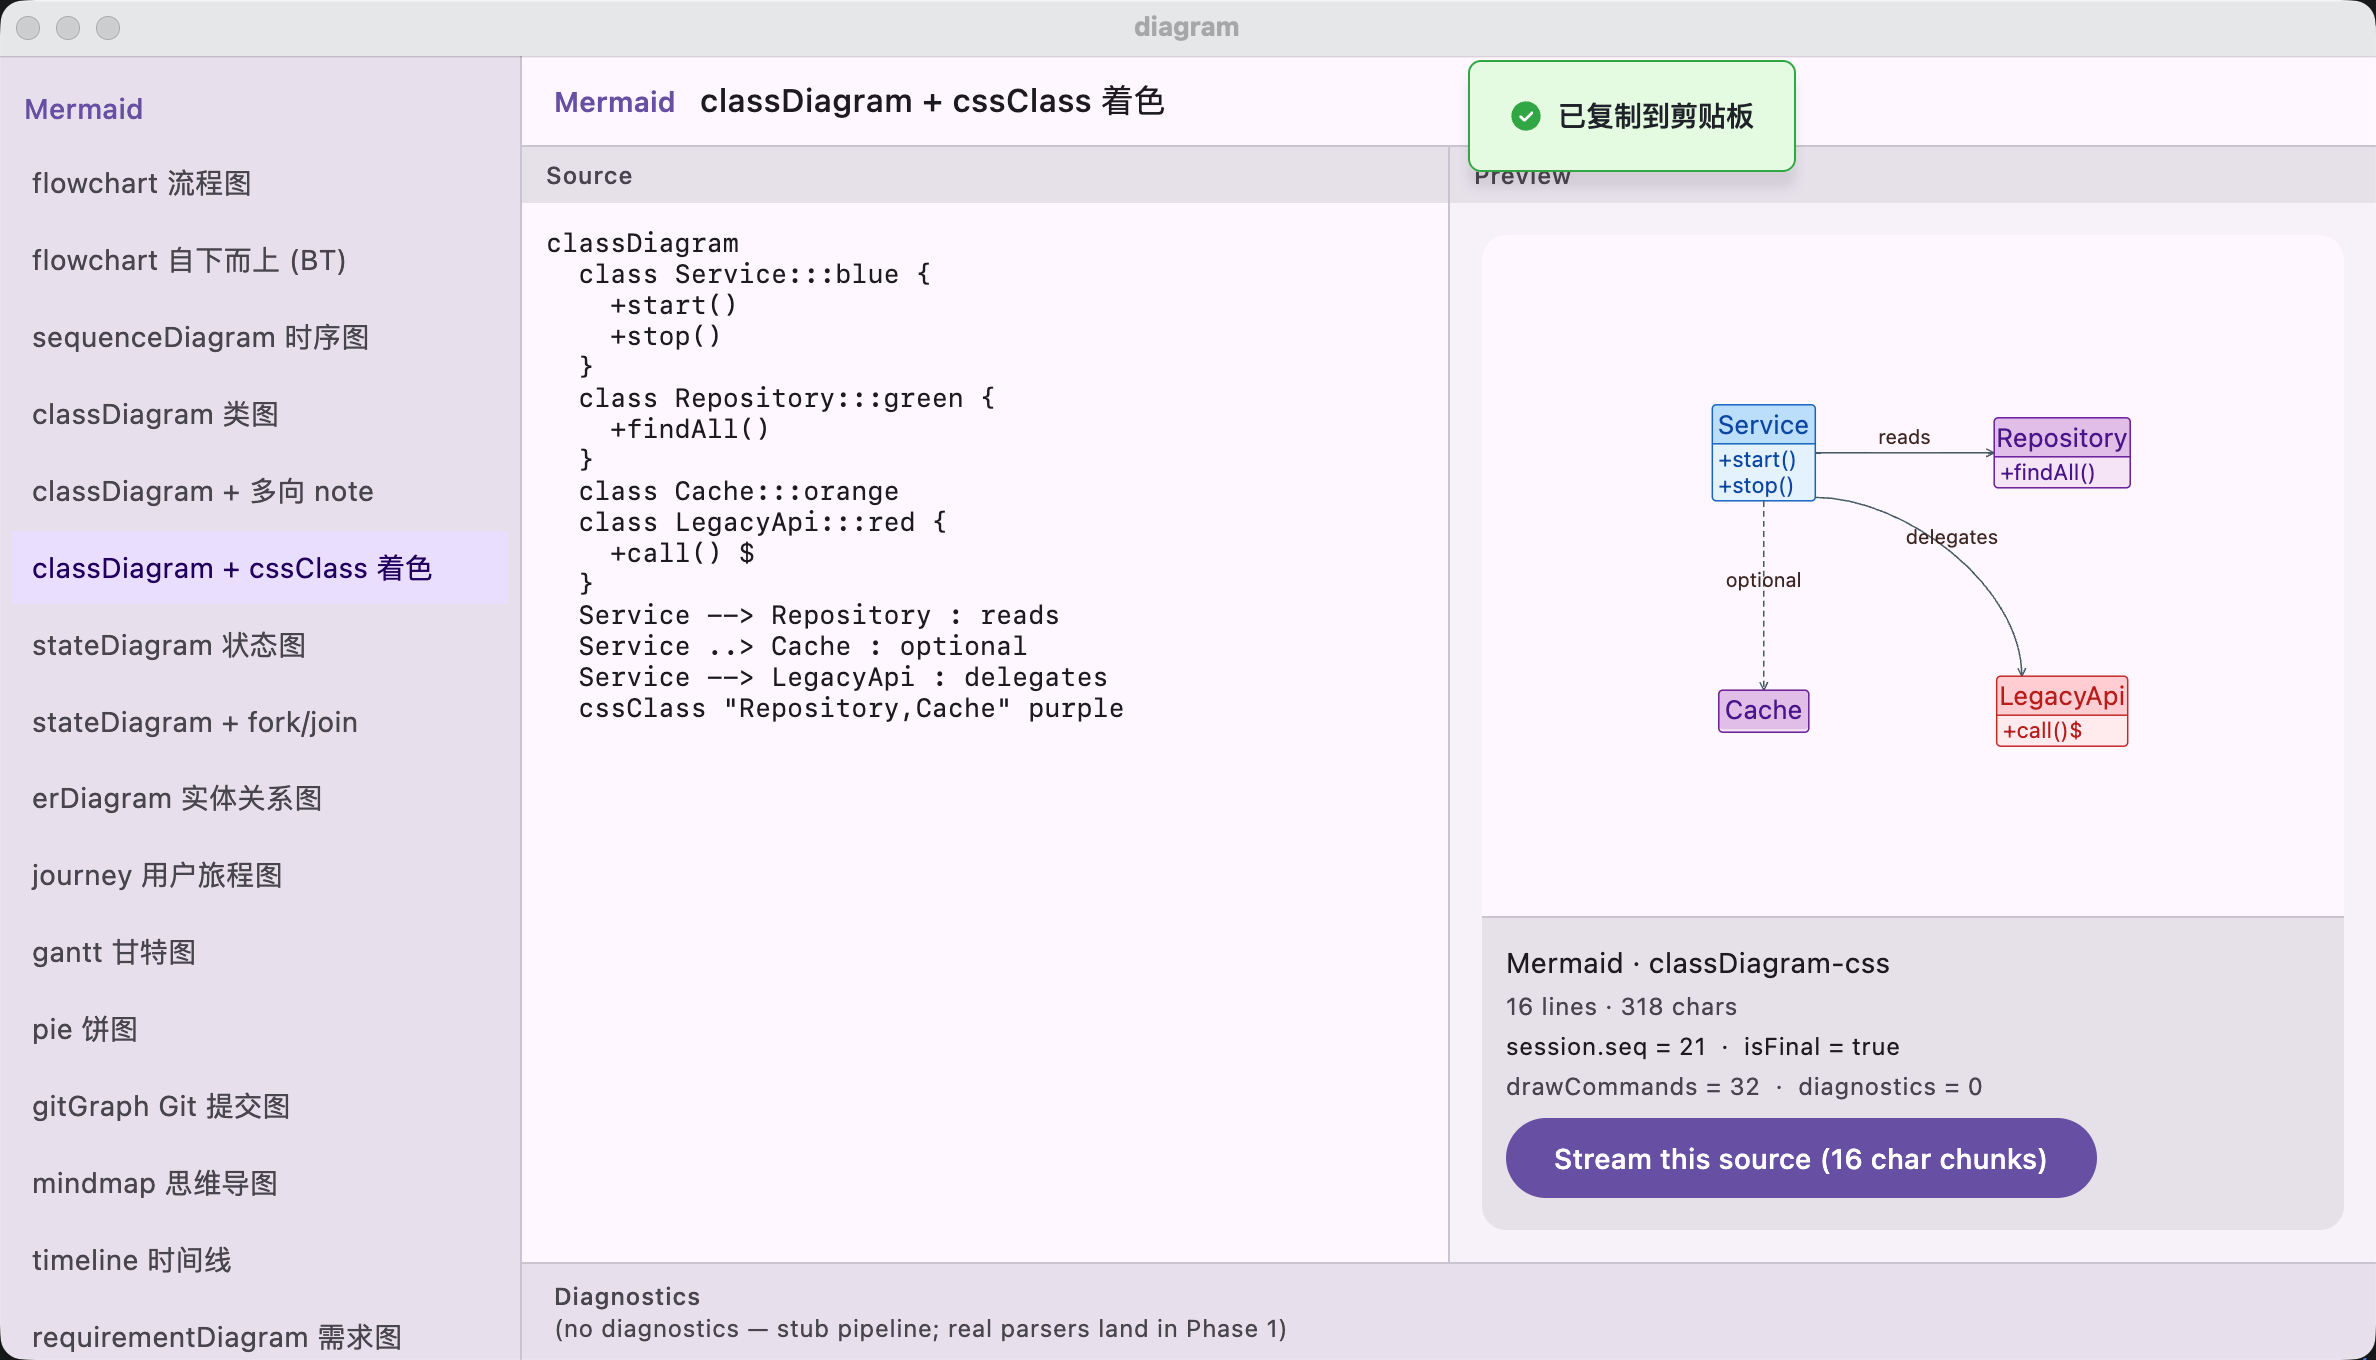
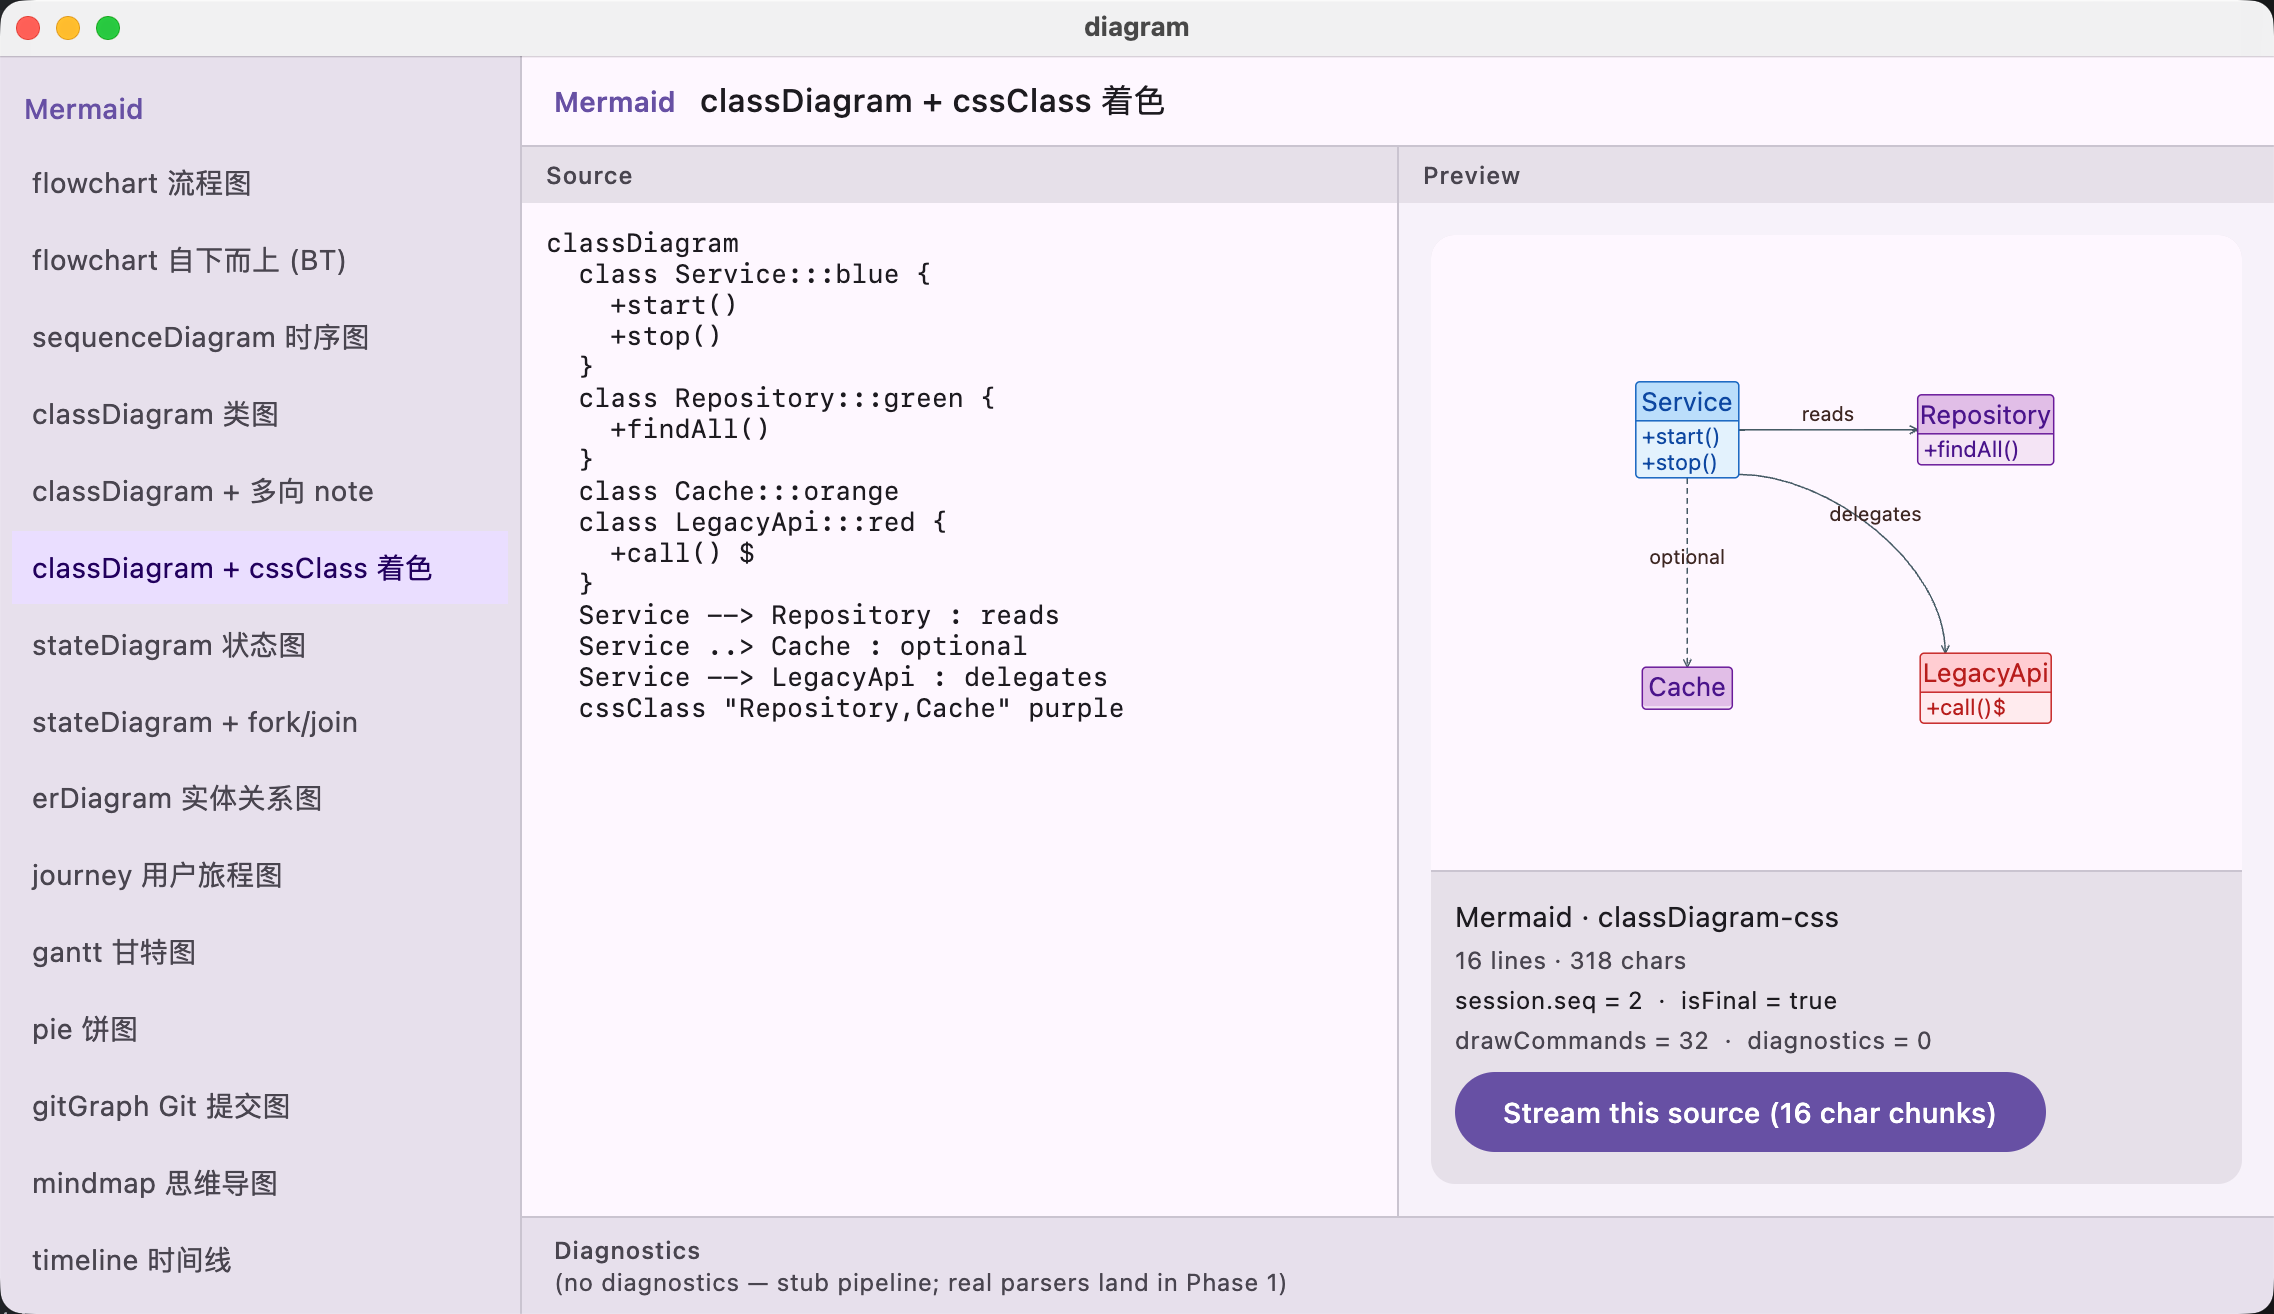
docs: 增加图片展示

diff --git a/README.md b/README.md
@@ -12,9 +12,17 @@ A Kotlin Multiplatform diagram rendering SDK with self-hosted parsing, layout, a
 
 ## Preview
 
-| Mermaid | PlantUML | DOT |
-|---|---|---|
-| ![Mermaid preview](./images/mermaid.png) | ![PlantUML preview](./images/plantuml.png) | ![DOT preview](./images/dot.png) |
+### Mermaid
+
+![Mermaid preview](./images/mermaid.png)
+
+### PlantUML
+
+![PlantUML preview](./images/plantuml.png)
+
+### DOT
+
+![DOT preview](./images/dot.png)
 
 ## Key Features
 

diff --git a/README_zh.md b/README_zh.md
@@ -12,9 +12,17 @@
 
 ## 图像预览
 
-| Mermaid | PlantUML | DOT |
-|---|---|---|
-| ![Mermaid 预览](./images/mermaid.png) | ![PlantUML 预览](./images/plantuml.png) | ![DOT 预览](./images/dot.png) |
+### Mermaid
+
+![Mermaid 预览](./images/mermaid.png)
+
+### PlantUML
+
+![PlantUML 预览](./images/plantuml.png)
+
+### DOT
+
+![DOT 预览](./images/dot.png)
 
 ## 核心特性
 
